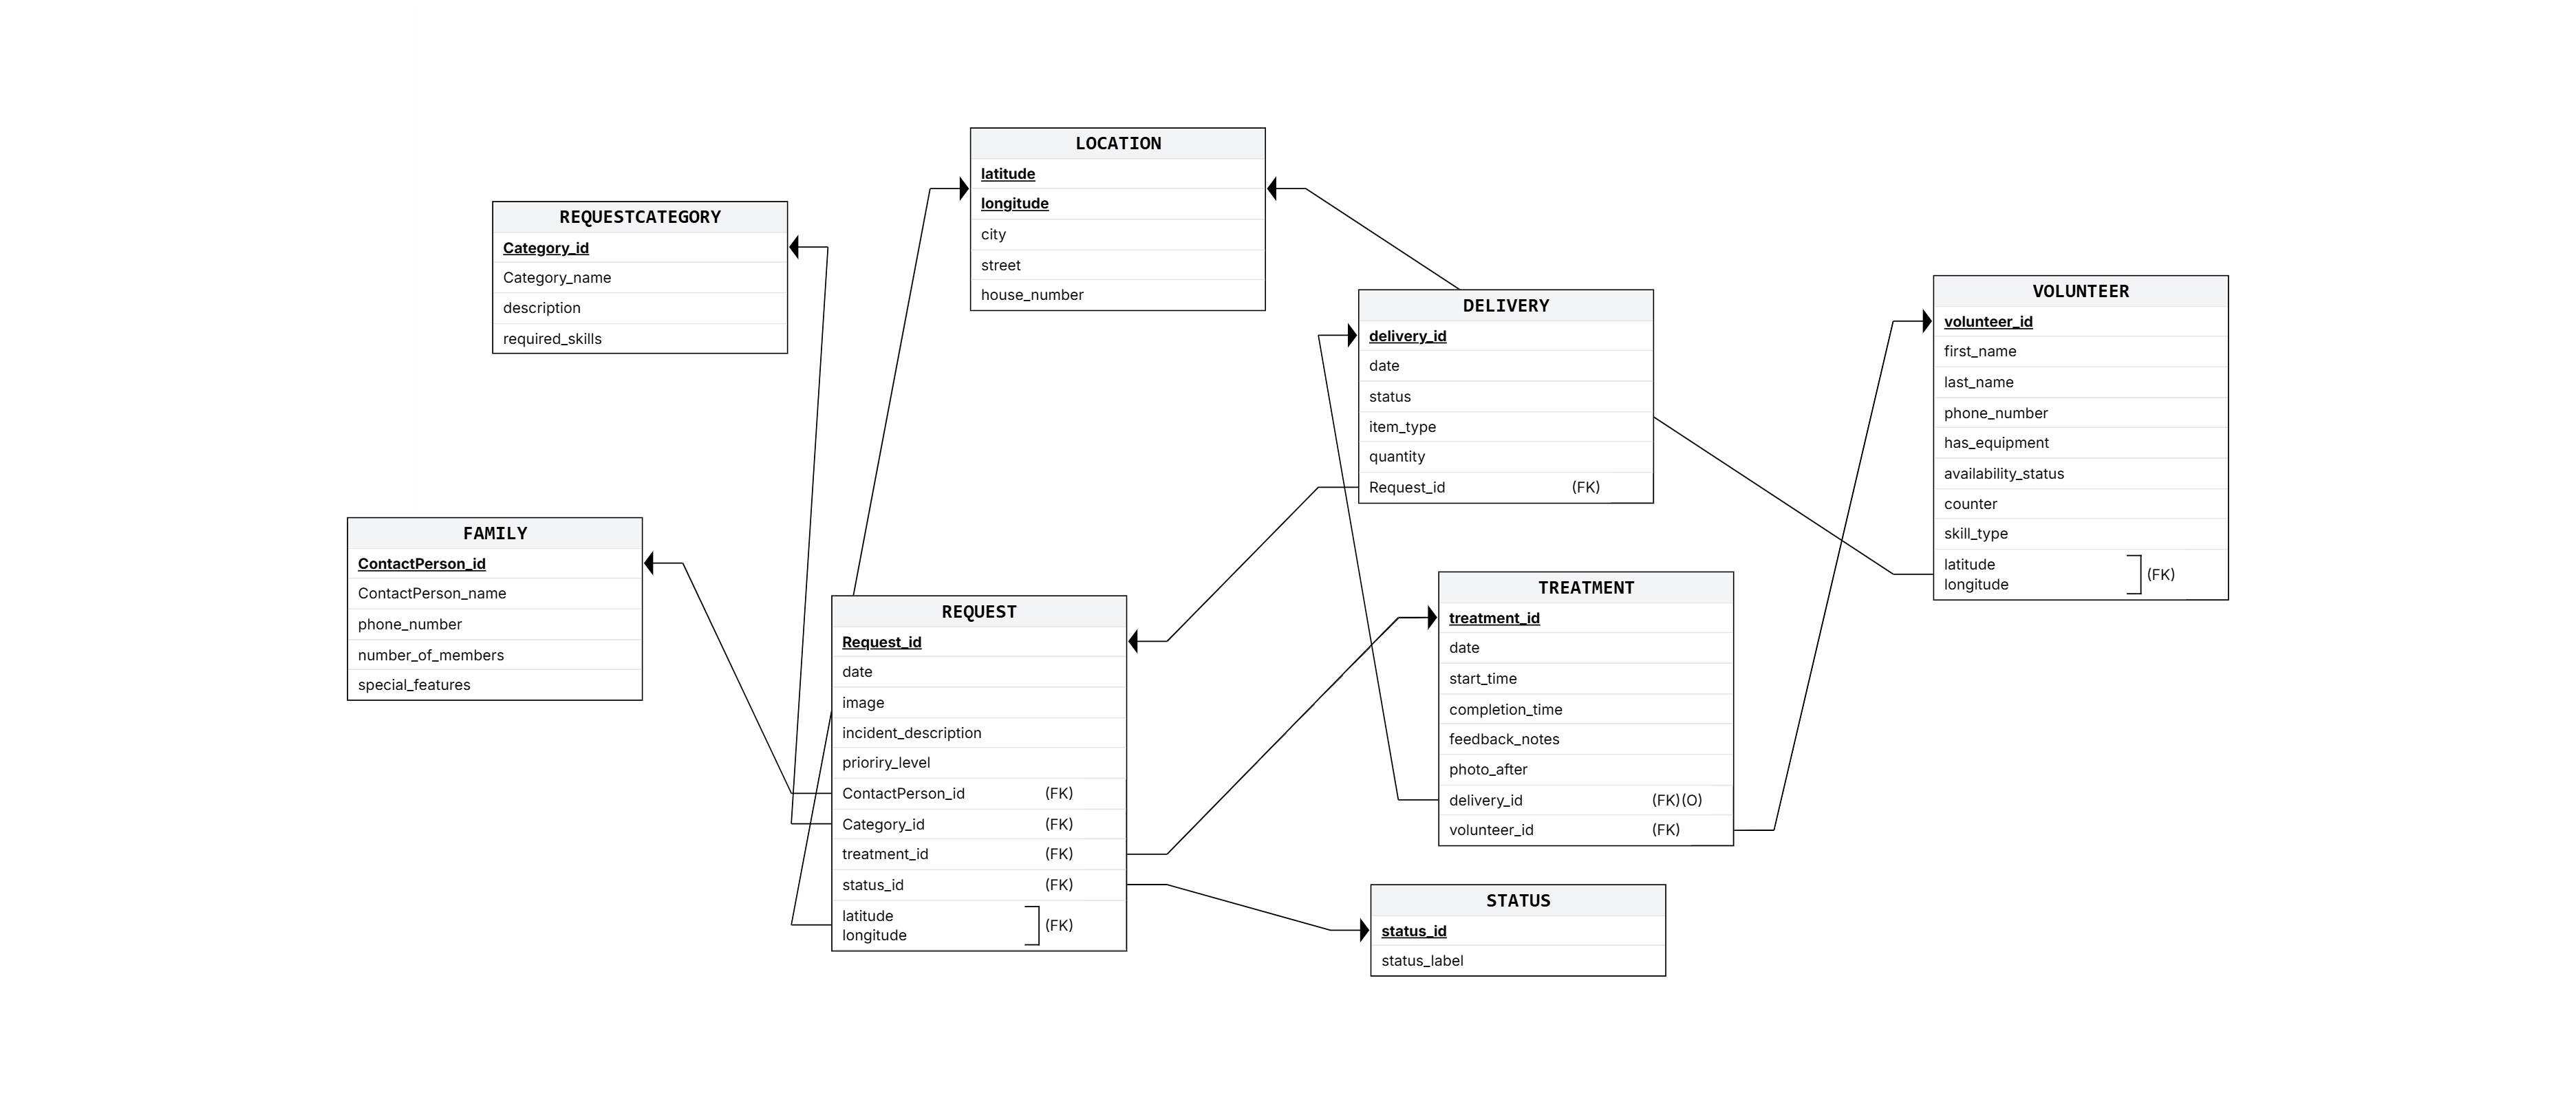
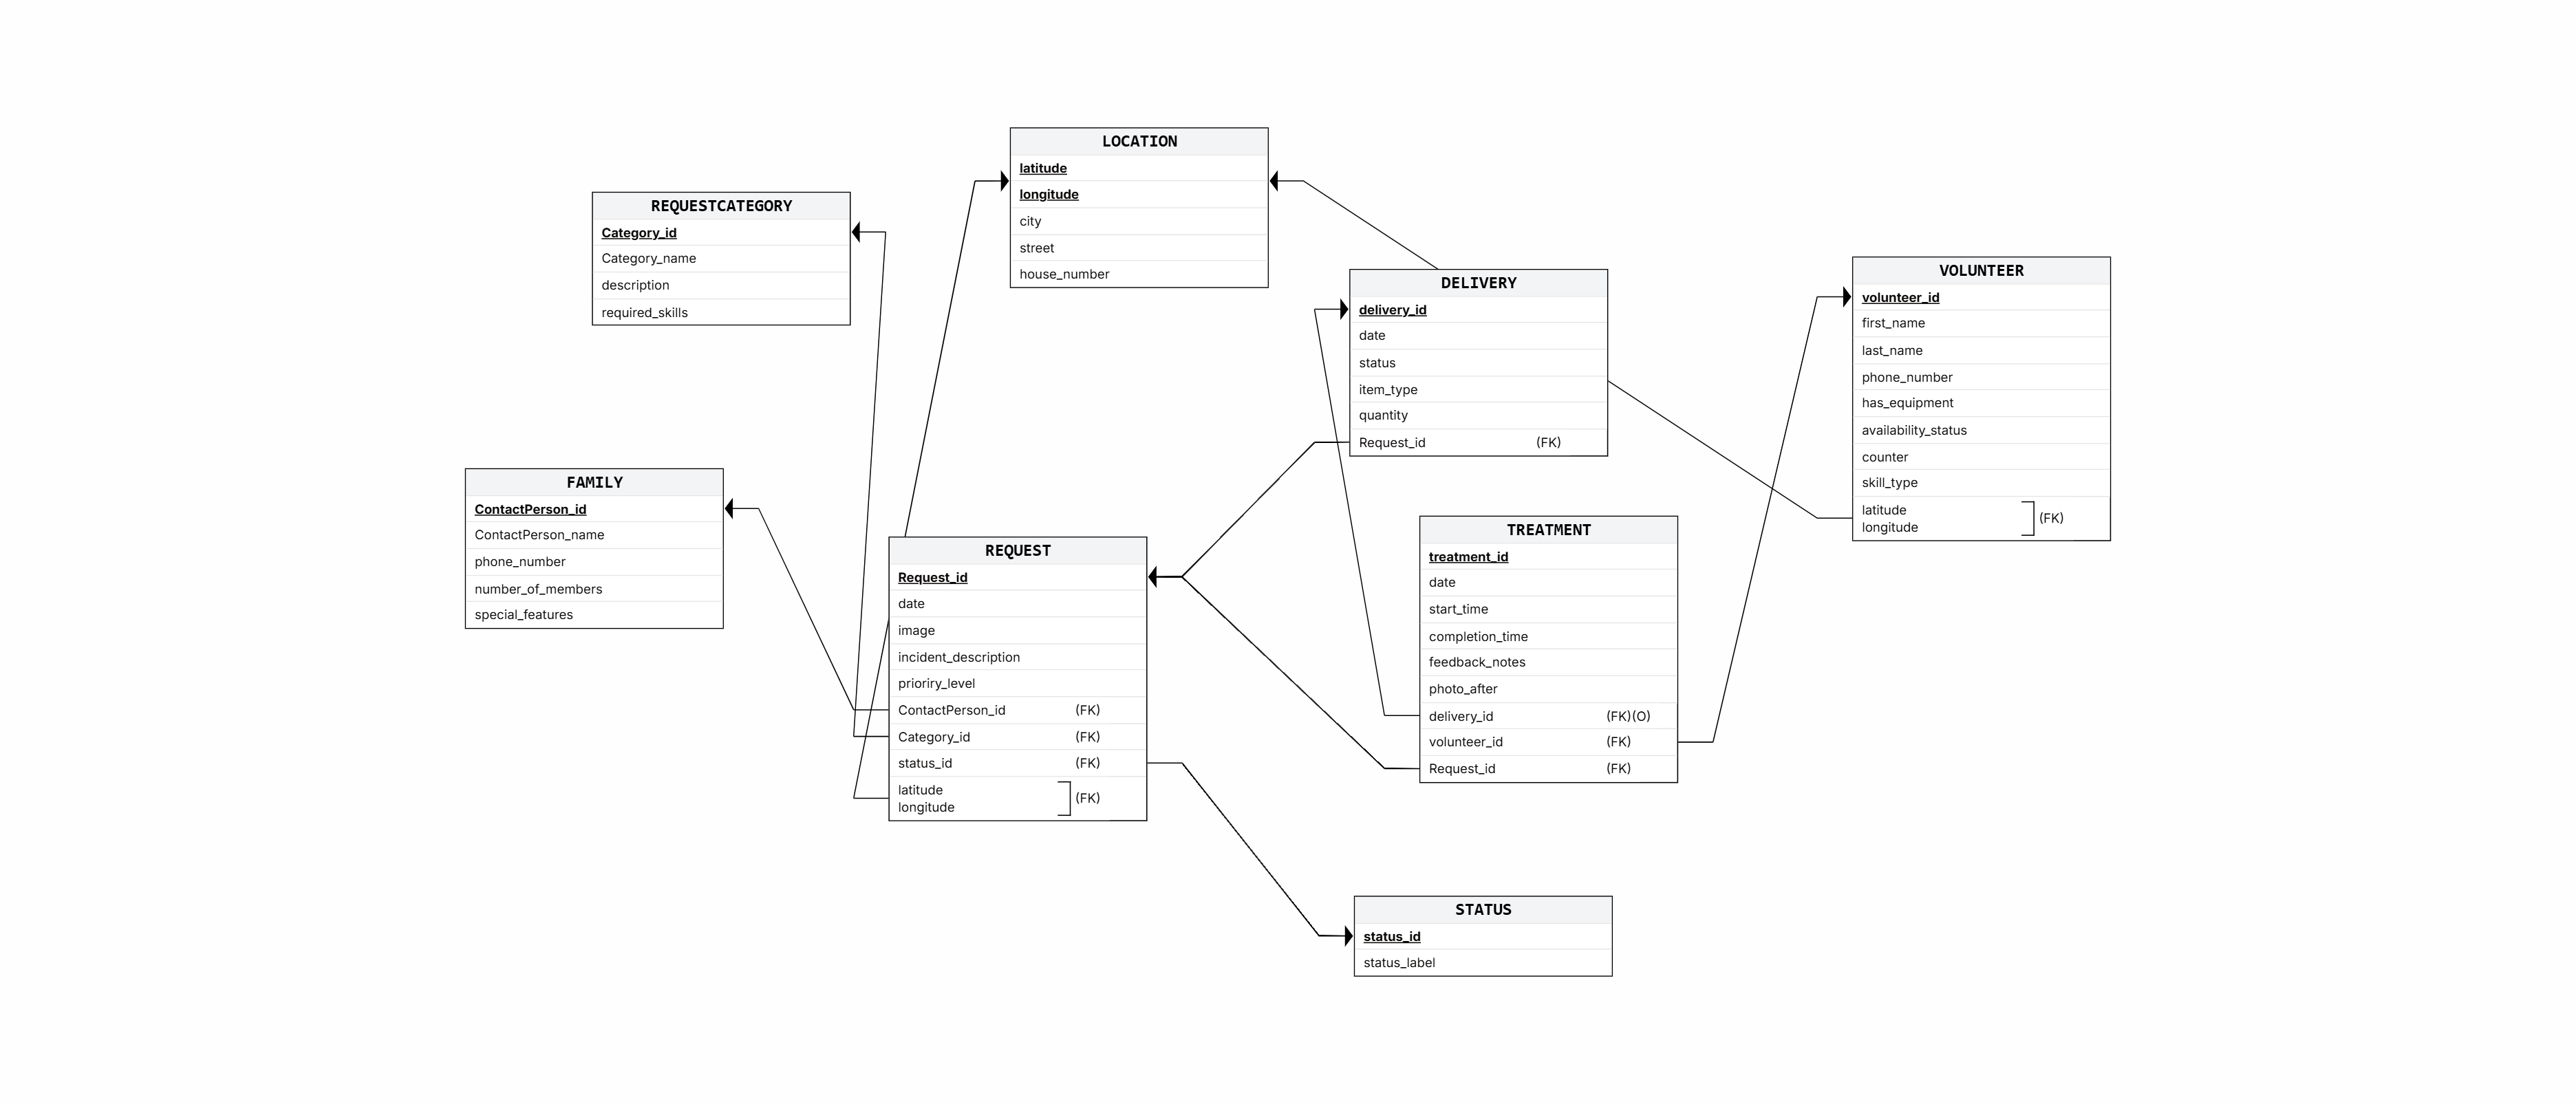
i fixed a problem

diff --git a/שלב א/Programming/generate_data.py b/שלב א/Programming/generate_data.py
@@ -20,9 +20,9 @@ def generate_data():
             
             # 1. REQUEST
             sql_req = (f"INSERT INTO REQUEST (Request_id, date, image, incident_description, "
-                       f"prioriry_level, ContactPerson_id, Category_id, treatment_id, status_id, latitude, longitude) "
+                       f"prioriry_level, ContactPerson_id, Category_id, status_id, latitude, longitude) "
                        f"VALUES ({i}, '{date}', 'req_{i}.jpg', 'Assistance needed #{i}', {priority}, "
-                       f"{f_id}, {cat_id}, {i}, {stat_id}, {lat}, {lon});\n")
+                       f"{f_id}, {cat_id}, {stat_id}, {lat}, {lon});\n")
             f.write(sql_req)
 
             # 2.  DELIVERY (Optional)
@@ -40,15 +40,15 @@ def generate_data():
             start_hour = random.randint(7, 19)
             start_min = random.randint(0, 59)
             duration = random.randint(30, 120)
-            start_time = datetime.strptime(f"{start_hour}:{start_min}", "%H:%M")
-            end_time = start_time + timedelta(minutes=duration)
+            start_time_dt = datetime.strptime(f"{start_hour}:{start_min}", "%H:%M")
+            end_time_dt = start_time_dt + timedelta(minutes=duration)
             v_id = random.randint(200000000, 399999999)
             
             sql_treat = (f"INSERT INTO TREATMENT (treatment_id, date, start_time, completion_time, "
-                         f"feedback_notes, photo_after, delivery_id, volunteer_id) "
-                         f"VALUES ({i}, '{date}', '{start_time.strftime('%H:%M:%S')}', "
-                         f"'{end_time.strftime('%H:%M:%S')}', 'Mission #{i} completed', "
-                         f"'after_{i}.jpg', {d_id}, {v_id});\n")
+                         f"feedback_notes, photo_after, delivery_id, volunteer_id, request_id) "
+                         f"VALUES ({i}, '{date}', '{start_time_dt.strftime('%H:%M:%S')}', "
+                         f"'{end_time_dt.strftime('%H:%M:%S')}', 'Mission #{i} completed', "
+                         f"'after_{i}.jpg', {d_id}, {v_id}, {i});\n")
             f.write(sql_treat)
 
         f.write("\nSET session_replication_role = 'origin';\n")